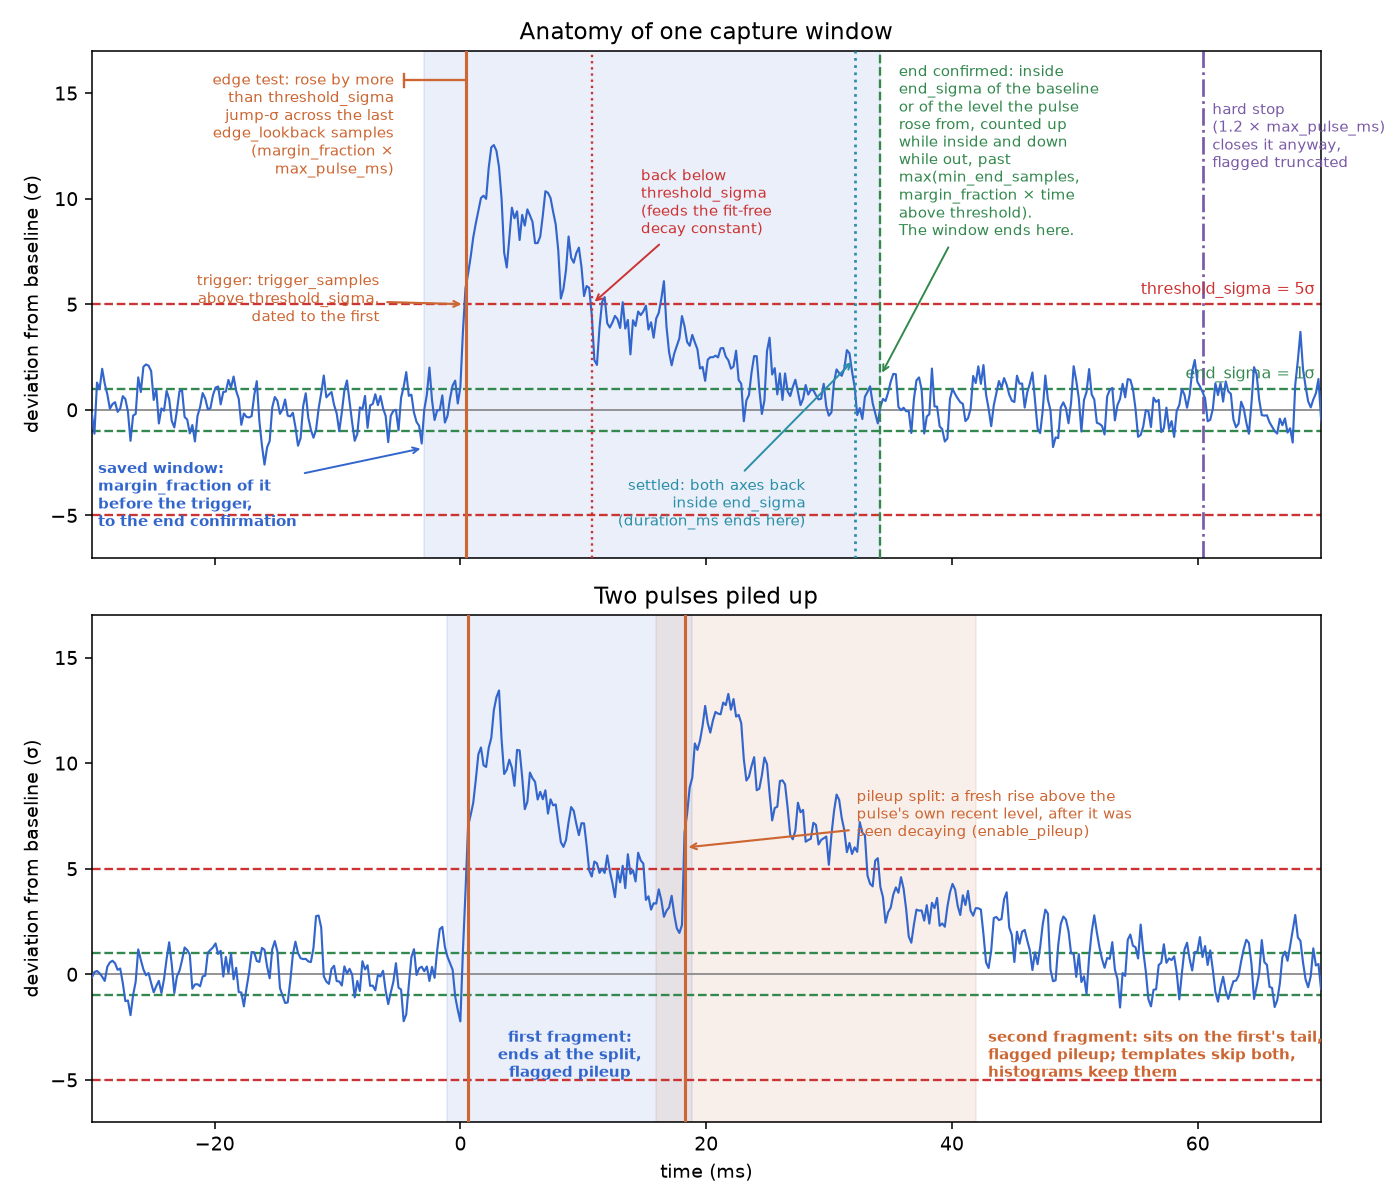
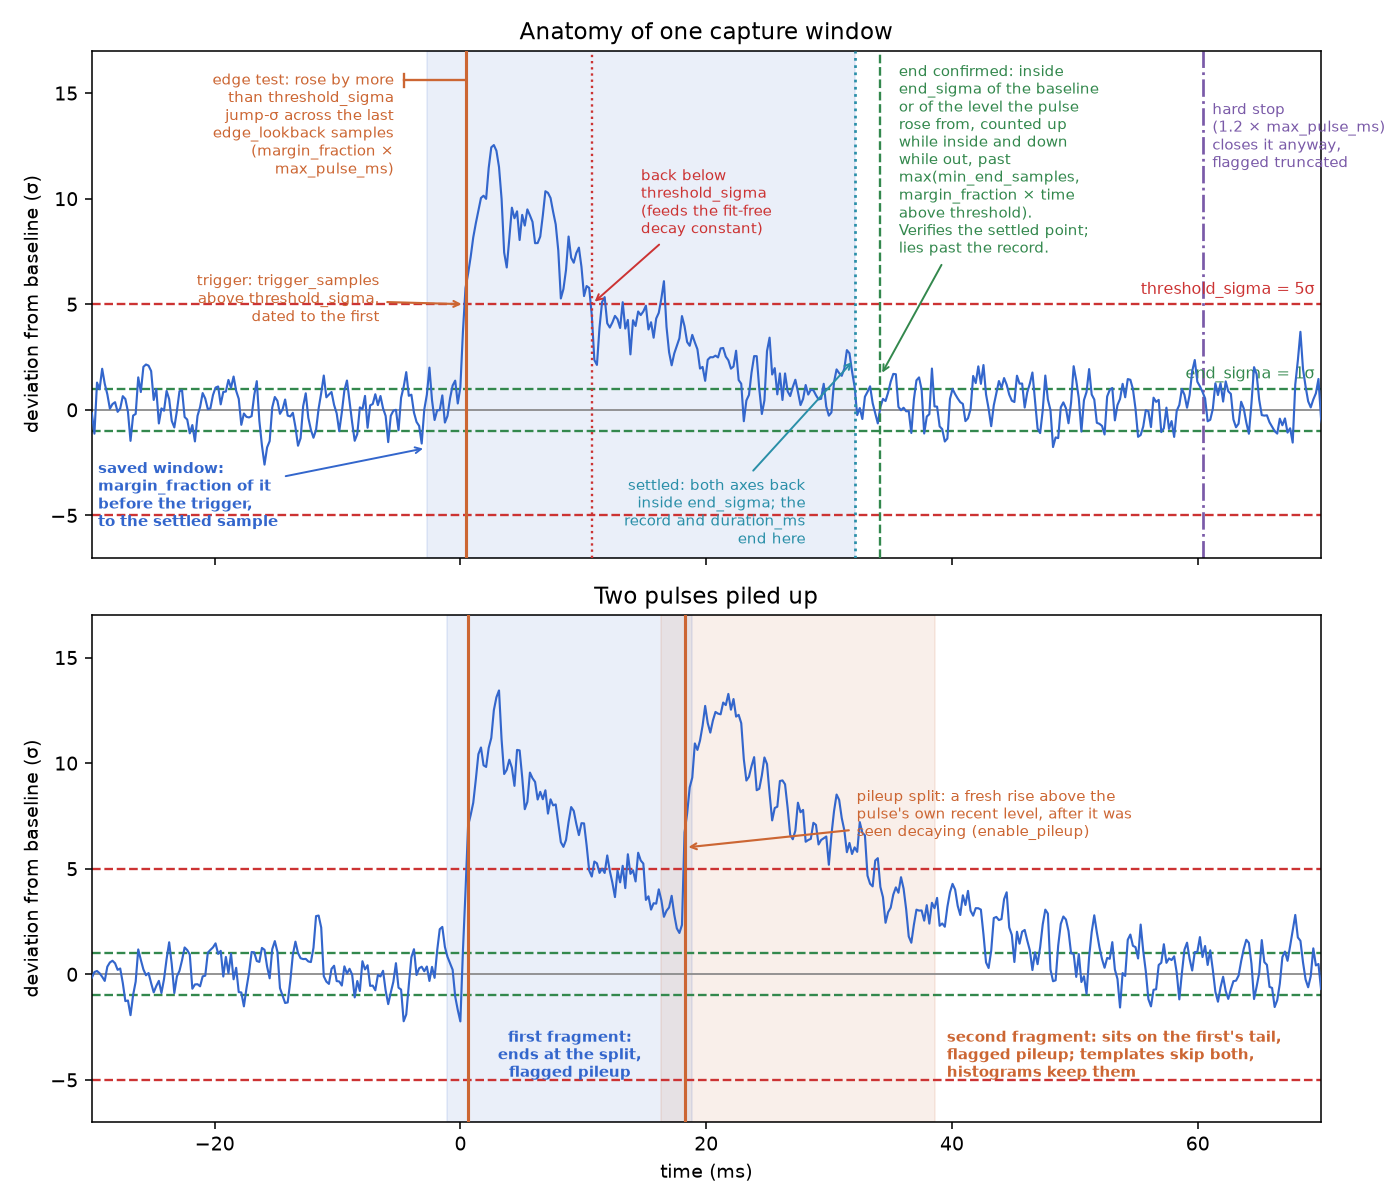
Pulse capture: the record ends where the pulse settled; the confirmation only verifies it
The saved window ran through the sample the end bucket confirmed on,
ten or more samples of baseline past the point the pulse had settled.
The confirmation is evidence that the settled point is real, not part
of the pulse, so the record now ends on the settled sample, the first
of the in-band run the bucket then verified.  A hard stop still keeps
everything to the stop, flagged truncated, and a split fragment still
ends at the split.  duration_ms is unchanged: trigger to settled.

The end-confirmed instant stays in the record as end_index/end_time,
past the data, and the Pulse View no longer draws it there: the
settled mark is the last sample.  On the 60 s mock capture behind the
guide's screenshots the median window went from 60 to 46 samples with
the last saved sample at 8% of the peak.  Guide, notebook, branch note
and the anatomy figure describe the record the engine now writes.

diff --git a/rfmux/pulse_capture/detection.py b/rfmux/pulse_capture/detection.py
@@ -233,10 +233,10 @@ class PulseCapture:
     started.
 
     The saved window runs from a ``margin_fraction`` pre-trigger margin
-    to the sample the end was confirmed on, or to the hard stop.  The
-    pulse's duration is trigger to the first sample of the in-band run
-    that confirmed the end; the below-threshold instant is kept as a
-    mark and feeds the fit-free decay constant.
+    to the sample the pulse settled on, the first of the in-band run the
+    end confirmation then verifies, or to the hard stop.  The pulse's
+    duration is trigger to that settled sample; the below-threshold
+    instant is kept as a mark and feeds the fit-free decay constant.
 
     Parameters
     ----------
@@ -1108,13 +1108,13 @@ class PulseCapture:
         st = self.state[channel]
         # Buffer arithmetic is per channel: ch_sample_n counts only this
         # channel's samples, where abs_n counts every channel's.
-        # The window keeps every sample the state machine saw: raw_post
-        # counts samples since the trigger and the window end is
-        # exclusive, so +1 takes in the sample the end was confirmed on
-        # or the hard stop fell on.  A split ends one sample earlier:
-        # the split sample begins the next fragment.
+        # raw_post counts samples since the trigger; the window end is
+        # exclusive.  A confirmed end keeps the record through the
+        # sample the pulse settled on: the confirmation that follows
+        # only verifies that point and lies past the data.  A hard stop
+        # keeps everything through the stop sample.  A split ends one
+        # sample earlier: the split sample begins the next fragment.
         raw_post = st.ch_sample_n - (st.trig_abs or st.ch_sample_n)
-        post = raw_post if pileup else raw_post + 1
         # Where the pulse settled, in samples since the trigger: only a
         # confirmed end has one.  A split or a hard stop never saw the
         # pulse settle, whatever the bucket held.
@@ -1123,6 +1123,12 @@ class PulseCapture:
                 and st.trig_abs is not None
                 and st.settled_abs >= st.trig_abs):
             settled = st.settled_abs - st.trig_abs
+        if settled is not None:
+            post = settled + 1
+        elif pileup:
+            post = raw_post
+        else:
+            post = raw_post + 1
 
         if post <= 0 or st.trig_abs is None:
             self._reset(channel)
@@ -1156,9 +1162,11 @@ class PulseCapture:
 
         # Where the state machine actually acted, so a capture can be
         # read back against the decisions that produced it.  end_index
-        # is the last saved sample for a confirmed end or a hard stop;
-        # for a split it is the split sample, one past the data.  Times
-        # are carried alongside the indices for that case.
+        # is the sample the capture was released on: the last saved
+        # sample for a hard stop, past the data for a confirmed end
+        # (the record stops where the pulse settled) and for a split
+        # (the split sample begins the next fragment).  Times are
+        # carried alongside the indices for those cases.
         ts_all = self.buf[channel]["ts"].data()
         trigger_index = trig_fifo - start
         end_index = (L - 1) - start

diff --git a/rfmux/pulse_capture/analysis.py b/rfmux/pulse_capture/analysis.py
@@ -170,9 +170,9 @@ def pulse_summary(
 
         ``duration`` is trigger → settled, the first sample of the
         in-band run that confirmed the end; not the length of the saved
-        window, which also carries the pre-trigger margin and the
-        confirmation tail.  A split or a hard stop never saw the pulse
-        settle, so it falls back to the window span.
+        window, which also carries the pre-trigger margin.  A split or
+        a hard stop never saw the pulse settle, so it falls back to the
+        window span.
     """
     peaks = pulse_peaks(pulse_data, noise_stats)
 
@@ -180,9 +180,8 @@ def pulse_summary(
     valid_times = times[np.isfinite(times)]
     timestamp = float(np.min(valid_times)) if len(valid_times) else 0.0
 
-    # Duration is trigger → settled, NOT the length of the saved window:
-    # the window also holds the pre-trigger margin and the confirmation
-    # tail, whose length depends on the noise rather than the pulse.
+    # Duration is trigger → settled, NOT the length of the saved window,
+    # which also holds the pre-trigger margin.
     # Files written before the settled instant was recorded carry only
     # the below-threshold instant; a confirmed end there measures to it.
     trigger_time = pulse_data.get("trigger_time")
@@ -210,8 +209,9 @@ def pulse_summary(
     # the event, the anchor for anything aligned across streams, since
     # each stream's record start sits its own margin before it.
     # ``saved_end_time`` is the last saved sample; pulse_data's
-    # ``end_time`` is the sample the state machine ended on, which for a
-    # split lies one past the data.
+    # ``end_time`` is the sample the capture was released on, past the
+    # data for a confirmed end (the record stops where the pulse
+    # settled) and for a split.
     return {
         "n_samples": int(len(np.asarray(pulse_data["Amp_I"]))),
         "pileup": bool(pulse_data.get("pileup", False)),

diff --git a/docs/make_pulse_capture_figures.py b/docs/make_pulse_capture_figures.py
@@ -138,13 +138,13 @@ def _one_pulse(ax, t, trace, rec):
                 xy=(below, CONFIG.threshold_sigma), xytext=(below + 4, 9.8),
                 fontsize=7.5, color=RED, va="center",
                 arrowprops=dict(arrowstyle="->", color=RED, lw=1))
-    ax.annotate("settled: both axes back\ninside end_sigma\n"
-                "(duration_ms ends here)",
+    ax.annotate("settled: both axes back\ninside end_sigma; the\n"
+                "record and duration_ms\nend here",
                 xy=(settled, 2.4), xytext=(settled - 4, -3.2),
                 fontsize=7.5, color=TEAL, va="top", ha="right",
                 arrowprops=dict(arrowstyle="->", color=TEAL, lw=1))
     ax.annotate("saved window:\nmargin_fraction of it\n"
-                "before the trigger,\nto the end confirmation",
+                "before the trigger,\nto the settled sample",
                 xy=(saved[0], -1.8), xytext=(-29.5, -2.4),
                 ha="left", va="top", fontsize=7.5, color=BLUE,
                 weight="bold",
@@ -158,7 +158,8 @@ def _one_pulse(ax, t, trace, rec):
                 "max(min_end_samples,\n"
                 "margin_fraction × time\n"
                 "above threshold).\n"
-                "The window ends here.",
+                "Verifies the settled point;\n"
+                "lies past the record.",
                 xy=(confirmed, 1.6), xytext=(confirmed + 1.5, 16.4),
                 fontsize=7.5, color=GREEN, va="top", ha="left",
                 arrowprops=dict(arrowstyle="->", color=GREEN, lw=1))

diff --git a/test/pulse_capture/test_pulse_capture.py b/test/pulse_capture/test_pulse_capture.py
@@ -2082,16 +2082,18 @@ class TestDecisionMarks:
         # …and it is where the signal is largest, not somewhere in noise.
         assert abs(d["Amp_I"][d["trigger_index"]]) > 20
 
-    def test_window_runs_to_the_end_confirmation(self):
-        """The window ends exactly where the state machine did: the end
-        mark is the last sample, with the threshold drop and the settled
-        instant inside it."""
+    def test_window_ends_where_the_pulse_settled(self):
+        """The settled sample is the last one saved, with the threshold
+        drop inside the window; the end confirmation that verified it
+        lies past the data."""
         d = self._run()
         n = len(d["Amp_I"])
-        assert d["end_index"] == n - 1
-        assert d["end_time"] == pytest.approx(d["Time"][-1])
+        assert d["settled_index"] == n - 1
+        assert d["settled_time"] == pytest.approx(d["Time"][-1])
         assert d["trigger_index"] < d["below_threshold_index"] \
-            < d["settled_index"] < n - 1
+            < d["settled_index"]
+        assert d["end_index"] > n - 1
+        assert d["end_time"] > d["Time"][-1]
 
     def test_duration_is_trigger_to_settled(self):
         """Duration measures to where the pulse settled inside the end

diff --git a/test/pulse_capture/test_end_confirmation.py b/test/pulse_capture/test_end_confirmation.py
@@ -2,8 +2,8 @@
 
 A capture ends once the confirmation bucket exceeds
 ``max(min_end_samples, margin_fraction * core)``.  For a short pulse the
-floor wins, so it alone decides how far past below-threshold the saved
-window runs.
+floor wins, so it alone decides how long after the pulse settled the
+capture is released.
 """
 
 import numpy as np
@@ -89,11 +89,13 @@ def _short_pulse_summary():
     return got[0]
 
 
-def test_saved_extent_runs_to_the_confirmation():
-    """The saved data ends on the sample the end was confirmed on."""
+def test_saved_extent_ends_where_the_pulse_settled():
+    """The saved data ends on the settled sample; the confirmation that
+    verified it lies past the record."""
     summ, data = _short_pulse_summary()
     assert summ["saved_end_time"] == pytest.approx(float(np.max(data["Time"])))
-    assert summ["saved_end_time"] == pytest.approx(data["end_time"])
+    assert summ["saved_end_time"] == pytest.approx(data["settled_time"])
+    assert summ["saved_end_time"] < data["end_time"]
 
 
 def test_duration_runs_from_the_trigger_to_the_settled_instant():

diff --git a/test/pulse_capture/test_pulse_capture_panel.py b/test/pulse_capture/test_pulse_capture_panel.py
@@ -957,12 +957,11 @@ def test_decision_marks_are_drawn_and_described(qt_app, tmp_path):
                  if isinstance(it, pg.InfiniteLine)]
         # Vertical only — the horizontal band lines are curves now.
         verticals = [it for it in lines if it.angle == 90]
-        assert len(verticals) == 4, f"{name}: {len(verticals)} markers"
+        assert len(verticals) == 3, f"{name}: {len(verticals)} markers"
         labels = [getattr(it, "label", None) for it in verticals]
         if name == "I":
             texts = [lb.textItem.toPlainText() for lb in labels if lb]
-            assert set(texts) == {"trigger", "below threshold", "settled",
-                                  "end confirmed"}, texts
+            assert set(texts) == {"trigger", "below threshold", "settled"}, texts
         else:
             # x-linked, so repeating the labels underneath is noise
             assert all(lb is None for lb in labels)

diff --git a/rfmux/tools/periscope/pulse_capture_settings_dialog.py b/rfmux/tools/periscope/pulse_capture_settings_dialog.py
@@ -151,9 +151,10 @@ class PulseCaptureSettingsDialog(QtWidgets.QDialog):
             "lets an isolated noisy sample pass without restarting the "
             "count.\n\n"
             "For a short pulse the floor is what ends it, so this sets "
-            "how far past the pulse's settling the saved window runs.  "
-            "It is a sample count: the same number is 17 ms at 596 Hz "
-            "and 4 µs on the PFB stream."
+            "how long after the pulse settles the capture is released.  "
+            "The record itself ends where the pulse settled.  It is a "
+            "sample count: the same number is 17 ms at 596 Hz and 4 µs "
+            "on the PFB stream."
             "\n\nAlso how far back the pileup test looks for the pulse's "
             "own recent level: a rise of threshold sigma over this many "
             "samples, after decay evidence, splits the capture.")

diff --git a/rfmux/tools/periscope/pulse_capture_panel.py b/rfmux/tools/periscope/pulse_capture_panel.py
@@ -631,9 +631,9 @@ class PulseCapturePanel(QtWidgets.QWidget, ScreenshotMixin):
         """Mark where the engine triggered, where the pulse dropped below
         threshold and settled, and where the capture ended.
 
-        A mark past the last saved sample is not drawn: a split's end is
-        the split sample, one past its data, and a file written before
-        the window ran to the confirmation stops short of it.
+        A mark past the last saved sample is not drawn: the confirmation
+        of a settled end lies past the settled sample that ends the
+        record, and a split's end is the split sample, one past its data.
         """
         t = np.asarray(wf.get("Time"), dtype=np.float64)
         if not len(t):

diff --git a/docs/guides/pulse-capture.md b/docs/guides/pulse-capture.md
@@ -17,9 +17,10 @@ A capture estimates the noise on each channel first, then triggers when a
 sample leaves `threshold_sigma` and rose that far within the edge lookback,
 faster than the baseline drifts. It closes when both axes are back inside
 `end_sigma` of the baseline or of the level the pulse rose from. The saved
-window starts before the trigger, so the rising edge is kept, and ends on
-the sample that confirmed the end. A capture still open at 1.2 times
-`max_pulse_ms` is closed there and flagged `truncated`. Two pulses that
+window starts before the trigger, so the rising edge is kept, and ends
+where the pulse settled; the confirmation that follows only verifies that
+it stayed there. A capture still open at 1.2 times `max_pulse_ms` is
+closed there and flagged `truncated`. Two pulses that
 overlap are split when the signal rises sharply again on the tail of the
 first, and both fragments are flagged `pileup`. The figure is the engine's
 own output on a synthetic pulse and a piled-up pair.
@@ -53,8 +54,9 @@ saw.
 
 The left pane lists every pulse with its length, signal-to-noise and trigger
 time. **Pulse View** stacks the two axes against a common time axis with
-marks for the trigger, the drop below threshold, the settled point and the
-end. Left and Right move through the pulses, Home and End jump to the first and
+marks for the trigger, the drop below threshold and the settled point that
+ends the record. Left and Right move through the pulses, Home and End jump
+to the first and
 last, Space cycles the tabs, and Ctrl+E exports the list. **⟳ Re-estimate
 Noise** retrains the baseline without stopping.
 
@@ -135,7 +137,7 @@ toolbar follows.
   that confirm the end. For long pulses the count grows to **Margin
   fraction** of the time above threshold. It counts down while the signal
   is out of band, so one noisy sample does not restart it. The saved
-  window ends on the sample that confirms the end.
+  window ends where the pulse settled; the confirmation only verifies it.
 - **Margin fraction** (0.10): the fraction of the saved window kept before
   the trigger, the confirmation count as a fraction of the time above
   threshold, and the edge lookback as a fraction of the max pulse.

diff --git a/docs/release-notes/2026-09-pulse-capture-branch.md b/docs/release-notes/2026-09-pulse-capture-branch.md
@@ -174,10 +174,10 @@ Old values are main at the merge base (e46fc41).
 - Networking guide: one `rmem_max` value, 268435456 (256 MB, about three
   seconds of the four-channel PFB stream).
 - Pulse capture record: the saved window runs from the pre-trigger margin to
-  the sample the end was confirmed on, or to the hard stop, and a hard stop
-  always flags `truncated`. `duration_ms` runs from the trigger to the
-  settled instant, the first sample of the in-band run that confirmed the
-  end, carried in the record as `settled_index` and `settled_time`; the
+  the sample the pulse settled on, the first of the in-band run the end
+  confirmation then verifies, or to the hard stop, and a hard stop always
+  flags `truncated`. `duration_ms` runs from the trigger to that settled
+  sample, carried in the record as `settled_index` and `settled_time`; the
   drop below threshold stays as `below_threshold_index` and
   `below_threshold_time` and feeds the decay constant. The Pulse View marks
   all four. `save_to_end_confirmed` is gone from `PulseCaptureConfig`,

diff --git a/rfmux/reference-notebooks/Demos/pulse_capture.md b/rfmux/reference-notebooks/Demos/pulse_capture.md
@@ -364,10 +364,12 @@ How pulse detection works:
 The figure is the engine's own output on a synthetic pulse and a piled-up
 pair, at the defaults with `max_pulse_ms=50`. The shaded region is what gets
 saved: from `margin_fraction` of the window before the trigger (10% by
-default), so the record keeps pre-trigger baseline, to the sample the end was
-confirmed on. `duration_ms` runs from the trigger to where the pulse settled
-inside the end band. The drop below `threshold_sigma` is kept as a mark and
-feeds the fit-free decay constant.
+default), so the record keeps pre-trigger baseline, to the sample the pulse
+settled on inside the end band. The end confirmation, at least
+`min_end_samples` later, only verifies that it stayed there and lies past
+the record. `duration_ms` runs from the trigger to the settled sample. The
+drop below `threshold_sigma` is kept as a mark and feeds the fit-free decay
+constant.
 
 `describe()` reports everything derived at a given rate, and `validate()` catches
 inconsistent settings before you spend a capture on them.
